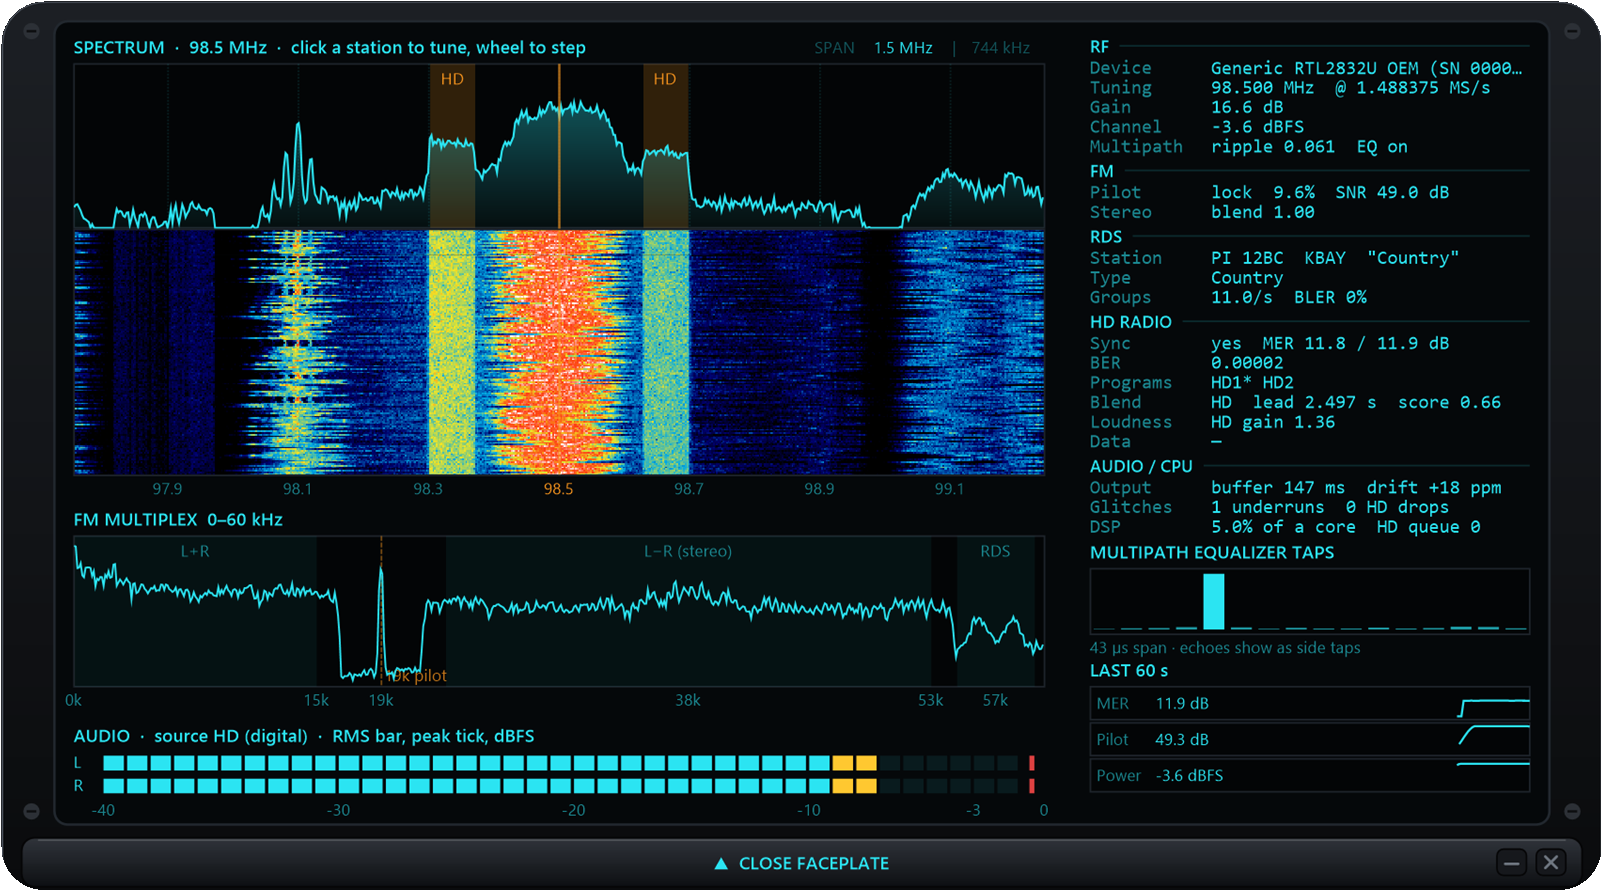
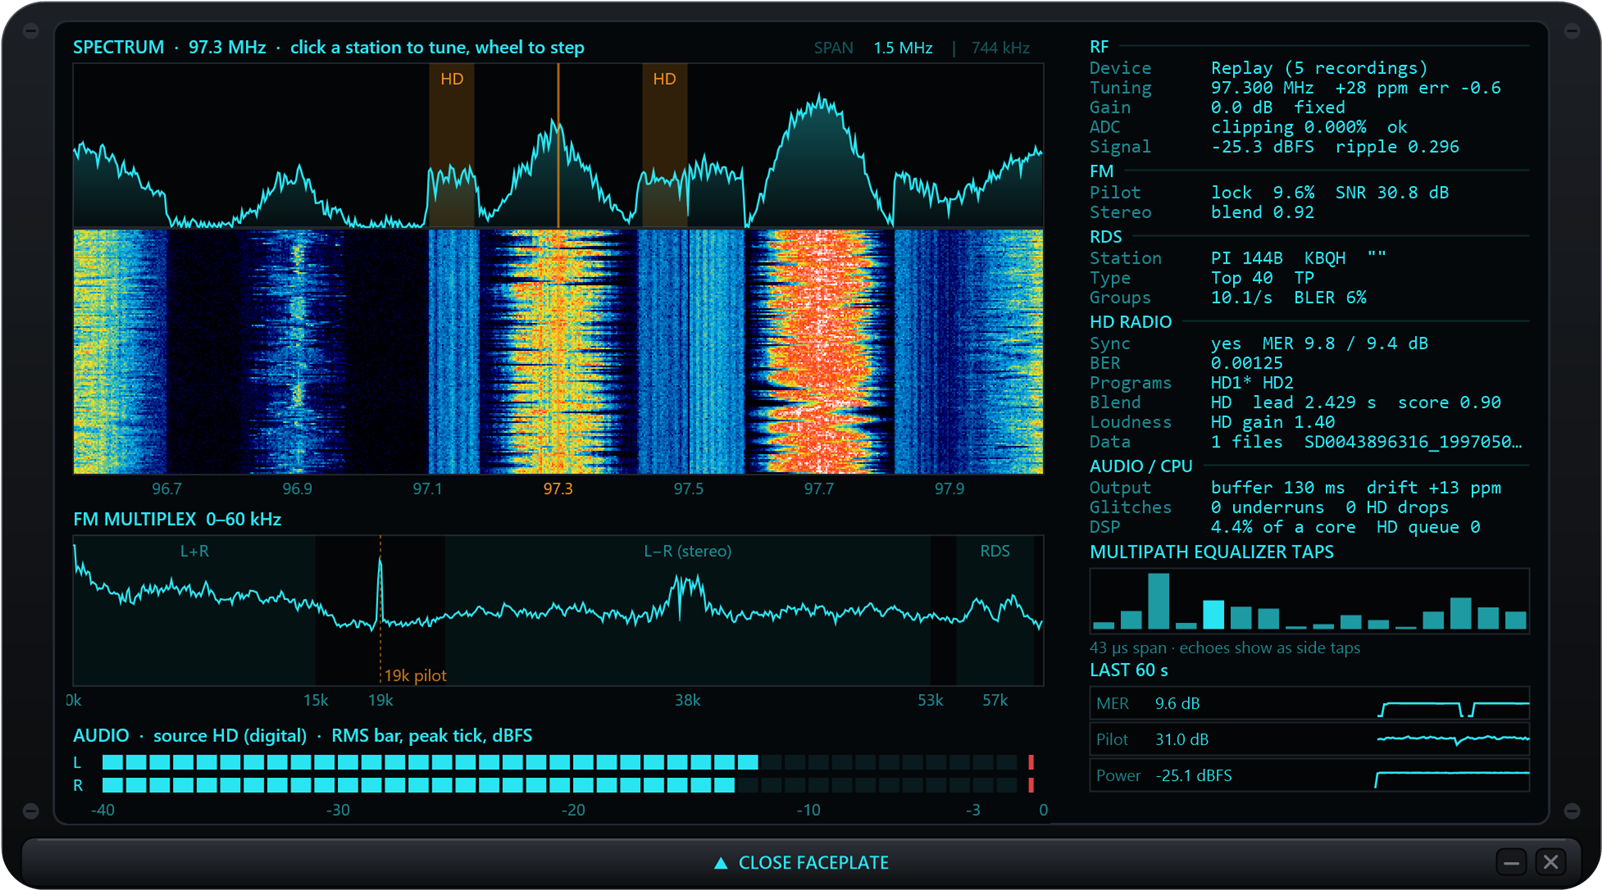
Version 0.4.0: robust frequency correction, steadier WEAK, new README screenshots
- Auto PPM: 9 readings over ~30 s, median applied only if they agree (IQR < 2.5 ppm), at most 10 ppm per step,
  each decision logged. Single readings through rtl_tcp vary by ~+-4 ppm and had walked the setting to +22 ppm.
- WEAK: the median BER of the last six frames, ignoring the first after sync, from 8 s after sync.
- tools ppmtest works with a network dongle (R808_RTLTCP).
- --bench sets a tidy face for screenshots (demo presets, song/station, cyan, album art).
- README screenshots of the new faceplate and the instrument panel.

diff --git a/src/Radio808.App/RadioController.cs b/src/Radio808.App/RadioController.cs
@@ -156,7 +156,7 @@ public sealed class RadioController : IDisposable
         if (rtlTcpAddress != null) Settings.RtlTcpAddress = rtlTcpAddress.Trim();
         Settings.Save();
         StopEngine();
-        _ppmDone = false; _ppmRounds = 0;   // a different dongle has its own crystal error
+        _ppmDone = false; _ppmRounds = 0; _ppmReadings.Clear();   // a different dongle has its own crystal error
         await StartAsync();
     }
 
@@ -329,18 +329,46 @@ public sealed class RadioController : IDisposable
     private bool _ppmDone;
     private int _ppmRounds;
 
+    private readonly System.Collections.Generic.List<double> _ppmReadings = new();
+    private DateTime _nextPpmReading;
+
     /// <summary>
-    /// Called about once a second. With auto-correction on, once a solid stereo station has been measured, applies the
-    /// dongle's frequency error if it's 1.5 ppm or more (up to 3 rounds per session, since the steps aren't exact).
+    /// Called about once a second. With auto-correction on, takes a reading of the dongle's frequency error every 3 s
+    /// while a solid stereo station plays, and after 9 readings applies their median if it's 1.5 ppm or more and the
+    /// readings agree (interquartile range under 2.5 ppm), at most 10 ppm at a time, up to 3 rounds per session.
+    /// A single reading can be off by several ppm (seen through rtl_tcp: +-4 ppm between readings), and trusting single
+    /// readings walked the setting to +22 ppm over many restarts; when the readings disagree, it leaves the setting alone.
     /// </summary>
     public void PpmTick()
     {
         var eng = Engine;
         if (eng == null || !Settings.AutoPpm || _ppmDone || Seeking) return;
         if (eng.MeasuredPpmError is not double err) return;
-        if (Math.Abs(err) < 1.5 || _ppmRounds >= 3) { _ppmDone = true; return; }
+        if (DateTime.UtcNow < _nextPpmReading) return;
+        _nextPpmReading = DateTime.UtcNow.AddSeconds(3);
+        _ppmReadings.Add(err);
+        if (_ppmReadings.Count < 9) return;
+
+        _ppmReadings.Sort();
+        double median = _ppmReadings[4], spread = _ppmReadings[6] - _ppmReadings[2];
+        string readings = string.Join(" ", _ppmReadings.Select(r => r.ToString("+0.0;-0.0")));
+        _ppmReadings.Clear();
         _ppmRounds++;
-        SetPpm(eng.Ppm + (int)Math.Round(err));
+        if (_ppmRounds >= 3) _ppmDone = true;
+        if (spread > 2.5)
+        {
+            AppLog.Write($"PPM: readings disagree (spread {spread:0.0} ppm: {readings}); leaving {eng.Ppm:+0;-0;0} ppm");
+            return;
+        }
+        if (Math.Abs(median) < 1.5)
+        {
+            AppLog.Write($"PPM: {eng.Ppm:+0;-0;0} ppm is right (median error {median:+0.0;-0.0}: {readings})");
+            _ppmDone = true;
+            return;
+        }
+        int step = Math.Clamp((int)Math.Round(median), -10, 10);
+        AppLog.Write($"PPM: median error {median:+0.0;-0.0} ppm ({readings}): {eng.Ppm:+0;-0;0} -> {eng.Ppm + step:+0;-0;0}");
+        SetPpm(eng.Ppm + step);
         Message?.Invoke($"PPM {Settings.Ppm:+0;-0;0} CALIBRATED");
     }
 
@@ -350,6 +378,7 @@ public sealed class RadioController : IDisposable
         Settings.AutoPpm = true;
         _ppmDone = false;
         _ppmRounds = 0;
+        _ppmReadings.Clear();
         Engine?.Receiver.RestartCarrierOffset();
         Message?.Invoke("CALIBRATING PPM");
     }

diff --git a/src/Radio808.Core/Hd/HdDecoder.cs b/src/Radio808.Core/Hd/HdDecoder.cs
@@ -1,6 +1,7 @@
 using System;
 using System.Collections.Concurrent;
 using System.Collections.Generic;
+using System.Linq;
 using System.Runtime.InteropServices;
 using System.Threading;
 using Radio808.Core.Native;
@@ -12,6 +13,10 @@ public sealed class HdStatus
 {
     public bool Synced;
     public float MerLower, MerUpper, Ber;
+    /// <summary>The median bit error rate of the last few frames (nrsc5 reports one per ~1.5 s frame), or -1 until there are 3.</summary>
+    public float BerAvg = -1;
+    /// <summary>When HD last synced (UTC).</summary>
+    public DateTime SyncedAt = DateTime.MinValue;
     public string? StationName, Slogan, Message, Alert;
     public string? Title, Artist, Album;
     public byte[]? AlbumArt, StationLogo, WeatherMap;
@@ -57,6 +62,8 @@ public sealed unsafe class HdDecoder : IDisposable
     private volatile bool _running;
     private IntPtr _nrsc5;
     private HdStatus _status = new();
+    private readonly Queue<float> _berHist = new();   // the last few frames' bit error rates, for a steady reading
+    private int _berSkip;
     private volatile uint _program;
     private volatile int _generation;      // bumped on retune; blocks from older generations are discarded
     private int _sessionGeneration = -1;
@@ -228,7 +235,8 @@ public sealed unsafe class HdDecoder : IDisposable
             switch (Nrsc5Native.EventType(e))
             {
                 case Nrsc5Native.EventSync:
-                    Update(s => s.Synced = true);
+                    lock (_berHist) { _berHist.Clear(); _berSkip = 1; }   // the first frame after sync is often rough
+                    Update(s => { s.Synced = true; s.SyncedAt = DateTime.UtcNow; s.BerAvg = -1; });
                     break;
                 case Nrsc5Native.EventLostSync:
                     Update(s => s.Synced = false);
@@ -240,7 +248,18 @@ public sealed unsafe class HdDecoder : IDisposable
                     break;
                 case Nrsc5Native.EventBer:
                     float ber = Nrsc5Native.F32(e, 8);
-                    Update(s => s.Ber = ber);
+                    float med = -1;
+                    lock (_berHist)
+                    {
+                        if (_berSkip > 0) _berSkip--;
+                        else
+                        {
+                            _berHist.Enqueue(ber);
+                            while (_berHist.Count > 6) _berHist.Dequeue();
+                            if (_berHist.Count >= 3) { var sorted = _berHist.OrderBy(b => b).ToArray(); med = sorted[sorted.Length / 2]; }
+                        }
+                    }
+                    Update(s => { s.Ber = ber; s.BerAvg = med; });
                     break;
                 case Nrsc5Native.EventAudio:
                     OnAudio(e);

diff --git a/src/Radio808.Core/Radio/RadioEngine.cs b/src/Radio808.Core/Radio/RadioEngine.cs
@@ -113,8 +113,18 @@ public sealed class RadioEngine : IDisposable
     /// </summary>
     public const float HdWeakBer = 0.01f;
 
-    /// <summary>HD is synced (name, programs) but too weak to play its audio.</summary>
-    public bool HdTooWeak => _hd.Status.Synced && _hd.Status.Ber > HdWeakBer && !_blender.PlayingHd;
+    /// <summary>
+    /// HD is synced (name, programs) but too weak to play its audio: judged on the median bit error rate of the last few frames, and only
+    /// once it's been synced a while (the first frames after sync, or a single bad frame, can be rough on any station).
+    /// </summary>
+    public bool HdTooWeak
+    {
+        get
+        {
+            var s = _hd.Status;
+            return s.Synced && DateTime.UtcNow - s.SyncedAt > TimeSpan.FromSeconds(8) && s.BerAvg > HdWeakBer && !_blender.PlayingHd;
+        }
+    }
     public HdDecoder HdDecoder => _hd;
 
     /// <summary>Station frequency in Hz. Setting it retunes immediately.</summary>

diff --git a/tools/Radio808.Tools/HdTools.cs b/tools/Radio808.Tools/HdTools.cs
@@ -143,9 +143,12 @@ internal static class HdTools
     /// <summary>Checks the carrier-offset PPM measurement: deliberately mis-set corrections should read back.</summary>
     public static int PpmTest(double mhz)
     {
-        using var radio = RadioEngine.StartAsync((long)Math.Round(mhz * 1e6), null, 16.6).GetAwaiter().GetResult();
+        var net = Environment.GetEnvironmentVariable("R808_RTLTCP");   // a network dongle, as for play
+        using var radio = (net is { Length: > 0 }
+            ? RadioEngine.StartAsync(new Radio808.Core.Devices.RtlTcpSource(net), (long)Math.Round(mhz * 1e6), 16.6)
+            : RadioEngine.StartAsync((long)Math.Round(mhz * 1e6), null, 16.6)).GetAwaiter().GetResult();
         radio.Muted = true;
-        foreach (int ppm in new[] { 0, 20, -20, 0 })
+        foreach (int ppm in new[] { 0, 20, -20, 0, 0 })
         {
             radio.Ppm = ppm;
             Thread.Sleep(7000);

diff --git a/src/Radio808.App/Program.cs b/src/Radio808.App/Program.cs
@@ -46,6 +46,11 @@ internal static class Program
         {
             settings.Muted = false;
             settings.Volume = 0;   // silent but not muted: the faceplate analyzer goes blank when muted
+            // a tidy face for screenshots: demo presets, song / station, cyan, album art on
+            settings.Presets = new() { new() { Mhz = 97.3 }, new() { Mhz = 98.5 }, new() { Mhz = 96.5 }, new() { Mhz = 92.3 }, new() { Mhz = 105.7 }, null };
+            settings.DisplayMode = 0;
+            settings.Illumination = 0;
+            settings.ShowAlbumArt = true;
             settings.FrequencyMhz = 97.3;
             if (args.Length > 5) settings.PanelFps = int.Parse(args[5]);   // optional frame rate setting (0 = display)
         }

diff --git a/CHANGELOG.md b/CHANGELOG.md
@@ -1,6 +1,6 @@
 # Changelog
 
-## Unreleased
+## 0.4.0 (2026-10-01)
 
 - **Display reworked like a real head unit's:** a large dot-matrix line and a full-width small one with the clock;
   **DISP** steps through what they show (song / station, station / song, station / genre, artist / title,
@@ -26,6 +26,12 @@
 - **WEAK** lights next to **HD** (and the instrument panel shows Sync "weak", Blend "HD too weak to play") when a station's HD
   is found, with its name and program list, but its bit error rate is too high for the audio to decode, so you're
   hearing the analog. Before, the HD badge and program tags suggested HD was playing.
+- **Automatic frequency correction no longer wanders.** It applied single readings, which through rtl_tcp vary by
+  about +-4 ppm from one to the next; over many restarts that walked the setting to +22 ppm (2 kHz off-tune, hurting
+  HD). It now takes 9 readings over ~30 s, applies their median only if they agree (and at most 10 ppm at a time),
+  and logs each decision to 808Radio.log. (A setting that already wandered: right-click, Frequency correction, Reset.)
+- WEAK judges the median bit error rate of the last few HD frames, from 8 s after sync, ignoring the first frame:
+  rough frames right after a sync no longer light it.
 - **Network dongle recovers from a wedged rtl_tcp.** rtl_tcp can hang when a client disconnects (half-closed socket,
   a spinning CPU, sometimes a stuck dongle). The Pi setup now installs `rtl-tcp-watchdog.service`, which restarts
   rtl_tcp and resets the dongle's USB connection when that happens; 808 Radio also reconnects if the stream trickles
